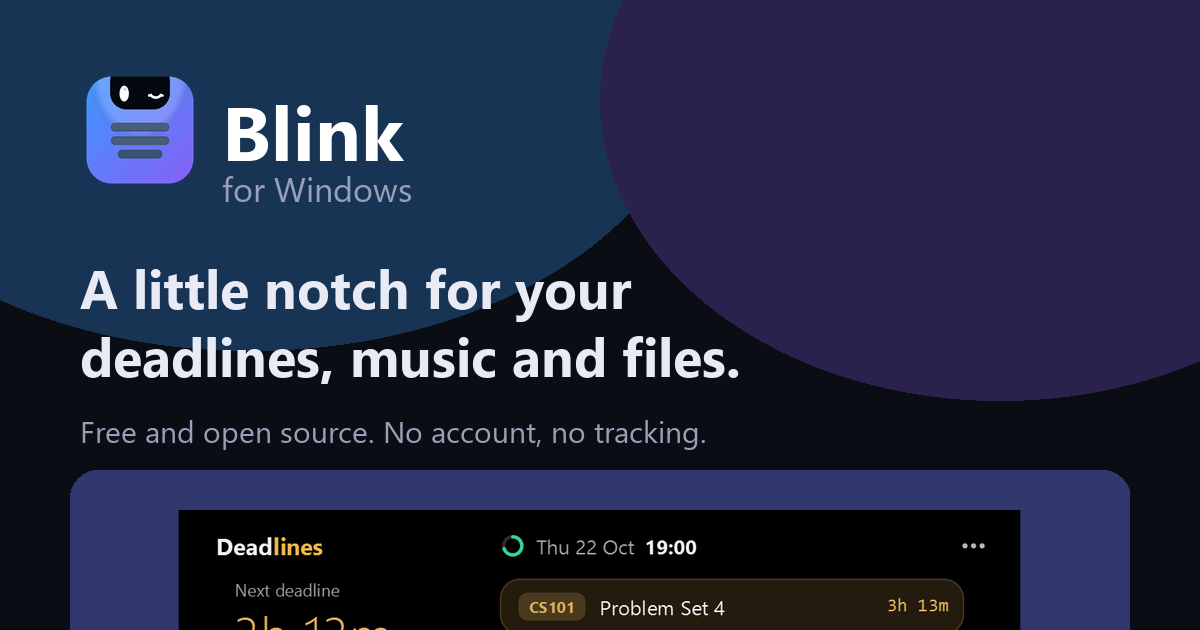
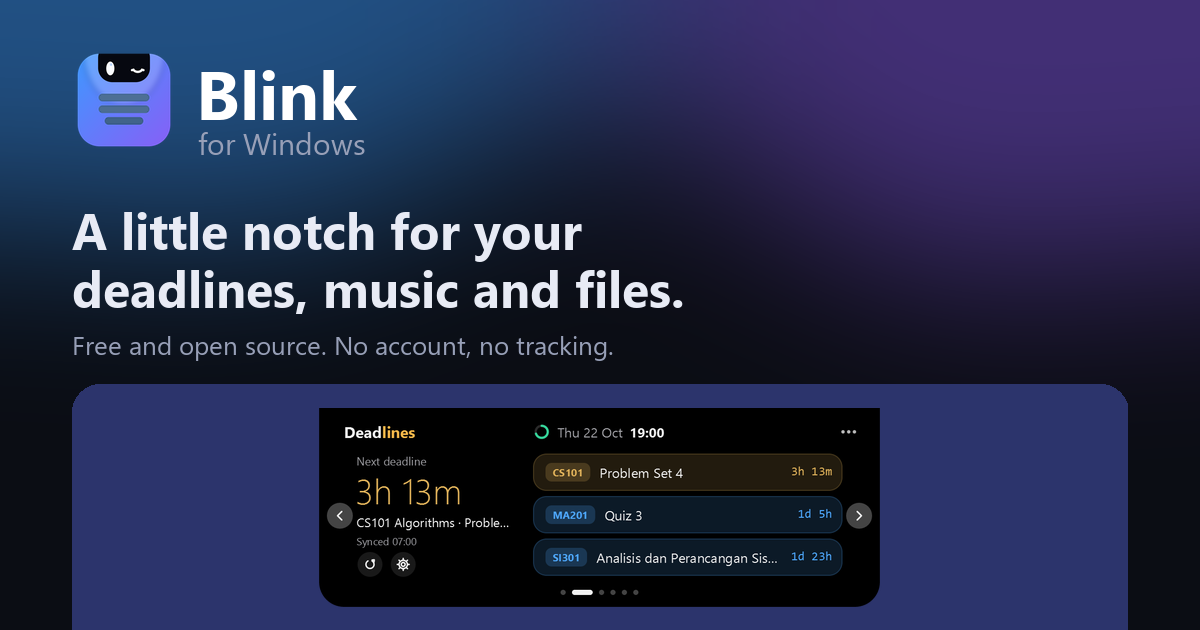
Social-preview picture: softer lights, nothing cut off

diff --git a/scripts/make-site-assets.py b/scripts/make-site-assets.py
@@ -6,7 +6,7 @@ Run scripts/make-icon.py and scripts/native/shots-site.ps1 first (the icon and t
 """
 import os
 import shutil
-from PIL import Image, ImageDraw, ImageFont
+from PIL import Image, ImageDraw, ImageFilter, ImageFont
 
 ROOT = os.path.dirname(os.path.dirname(os.path.abspath(__file__)))
 ICON = os.path.join(ROOT, 'assets', 'icon')
@@ -28,30 +28,30 @@ def main():
         shutil.copy(os.path.join(ICON, f'blink-{size}.png'), os.path.join(IMG, f'blink-{size}.png'))
     shutil.copy(os.path.join(ICON, 'icon.ico'), os.path.join(IMG, 'favicon.ico'))
 
-    og = Image.new('RGB', (1200, 630), (11, 13, 20))
-    # The two soft lights of the page, then the picture of the notch on its stage.
+    og = Image.new('RGBA', (1200, 630), (11, 13, 20, 255))
+    # The two soft lights of the page, blurred, then the picture of the notch on its stage.
     glow = Image.new('RGBA', (1200, 630), (0, 0, 0, 0))
-    d = ImageDraw.Draw(glow)
-    d.ellipse((-200, -250, 700, 350), fill=(58, 155, 255, 70))
-    d.ellipse((600, -200, 1400, 400), fill=(139, 92, 246, 64))
-    og = Image.alpha_composite(og.convert('RGBA'), glow)
+    gd = ImageDraw.Draw(glow)
+    gd.ellipse((-260, -300, 640, 300), fill=(58, 155, 255, 120))
+    gd.ellipse((620, -260, 1420, 340), fill=(139, 92, 246, 110))
+    og = Image.alpha_composite(og, glow.filter(ImageFilter.GaussianBlur(110)))
     d = ImageDraw.Draw(og)
-    icon = Image.open(os.path.join(ICON, 'blink-256.png')).convert('RGBA').resize((120, 120), Image.LANCZOS)
-    og.alpha_composite(icon, (80, 70))
-    d.text((222, 78), 'Blink', font=font(76, True), fill=(255, 255, 255))
-    d.text((222, 165), 'for Windows', font=font(34), fill=(152, 160, 184))
-    d.text((80, 250), 'A little notch for your', font=font(54, True), fill=(232, 235, 245))
-    d.text((80, 318), 'deadlines, music and files.', font=font(54, True), fill=(232, 235, 245))
-    d.text((80, 410), 'Free and open source. No account, no tracking.', font=font(30), fill=(152, 160, 184))
+    icon = Image.open(os.path.join(ICON, 'blink-256.png')).convert('RGBA').resize((104, 104), Image.LANCZOS)
+    og.alpha_composite(icon, (72, 48))
+    d.text((196, 46), 'Blink', font=font(68, True), fill=(255, 255, 255))
+    d.text((198, 122), 'for Windows', font=font(30), fill=(152, 160, 184))
+    d.text((72, 196), 'A little notch for your', font=font(50, True), fill=(232, 235, 245))
+    d.text((72, 254), 'deadlines, music and files.', font=font(50, True), fill=(232, 235, 245))
+    d.text((72, 326), 'Free and open source. No account, no tracking.', font=font(26), fill=(152, 160, 184))
     shot_path = os.path.join(IMG, 'page-deadlines.png')
     if os.path.exists(shot_path):
-        stage = Image.new('RGBA', (1060, 300), (0, 0, 0, 0))
+        stage = Image.new('RGBA', (1056, 250), (0, 0, 0, 0))
         sd = ImageDraw.Draw(stage)
-        sd.rounded_rectangle((0, 0, 1060, 300), radius=28, fill=(48, 56, 110, 255))
+        sd.rounded_rectangle((0, 0, 1056, 300), radius=28, fill=(44, 52, 108, 255))
         shot = Image.open(shot_path).convert('RGBA')
-        shot = shot.resize((int(shot.width * 0.78), int(shot.height * 0.78)), Image.LANCZOS)
-        stage.alpha_composite(shot, ((1060 - shot.width) // 2, 40))
-        og.alpha_composite(stage, (70, 470 + 40 - 40))
+        shot = shot.resize((int(shot.width * 0.52), int(shot.height * 0.52)), Image.LANCZOS)
+        stage.alpha_composite(shot, ((1056 - shot.width) // 2, 24))
+        og.alpha_composite(stage, (72, 384))
     og.convert('RGB').save(os.path.join(IMG, 'og.png'), optimize=True)
     print('site assets written to', IMG)
 
